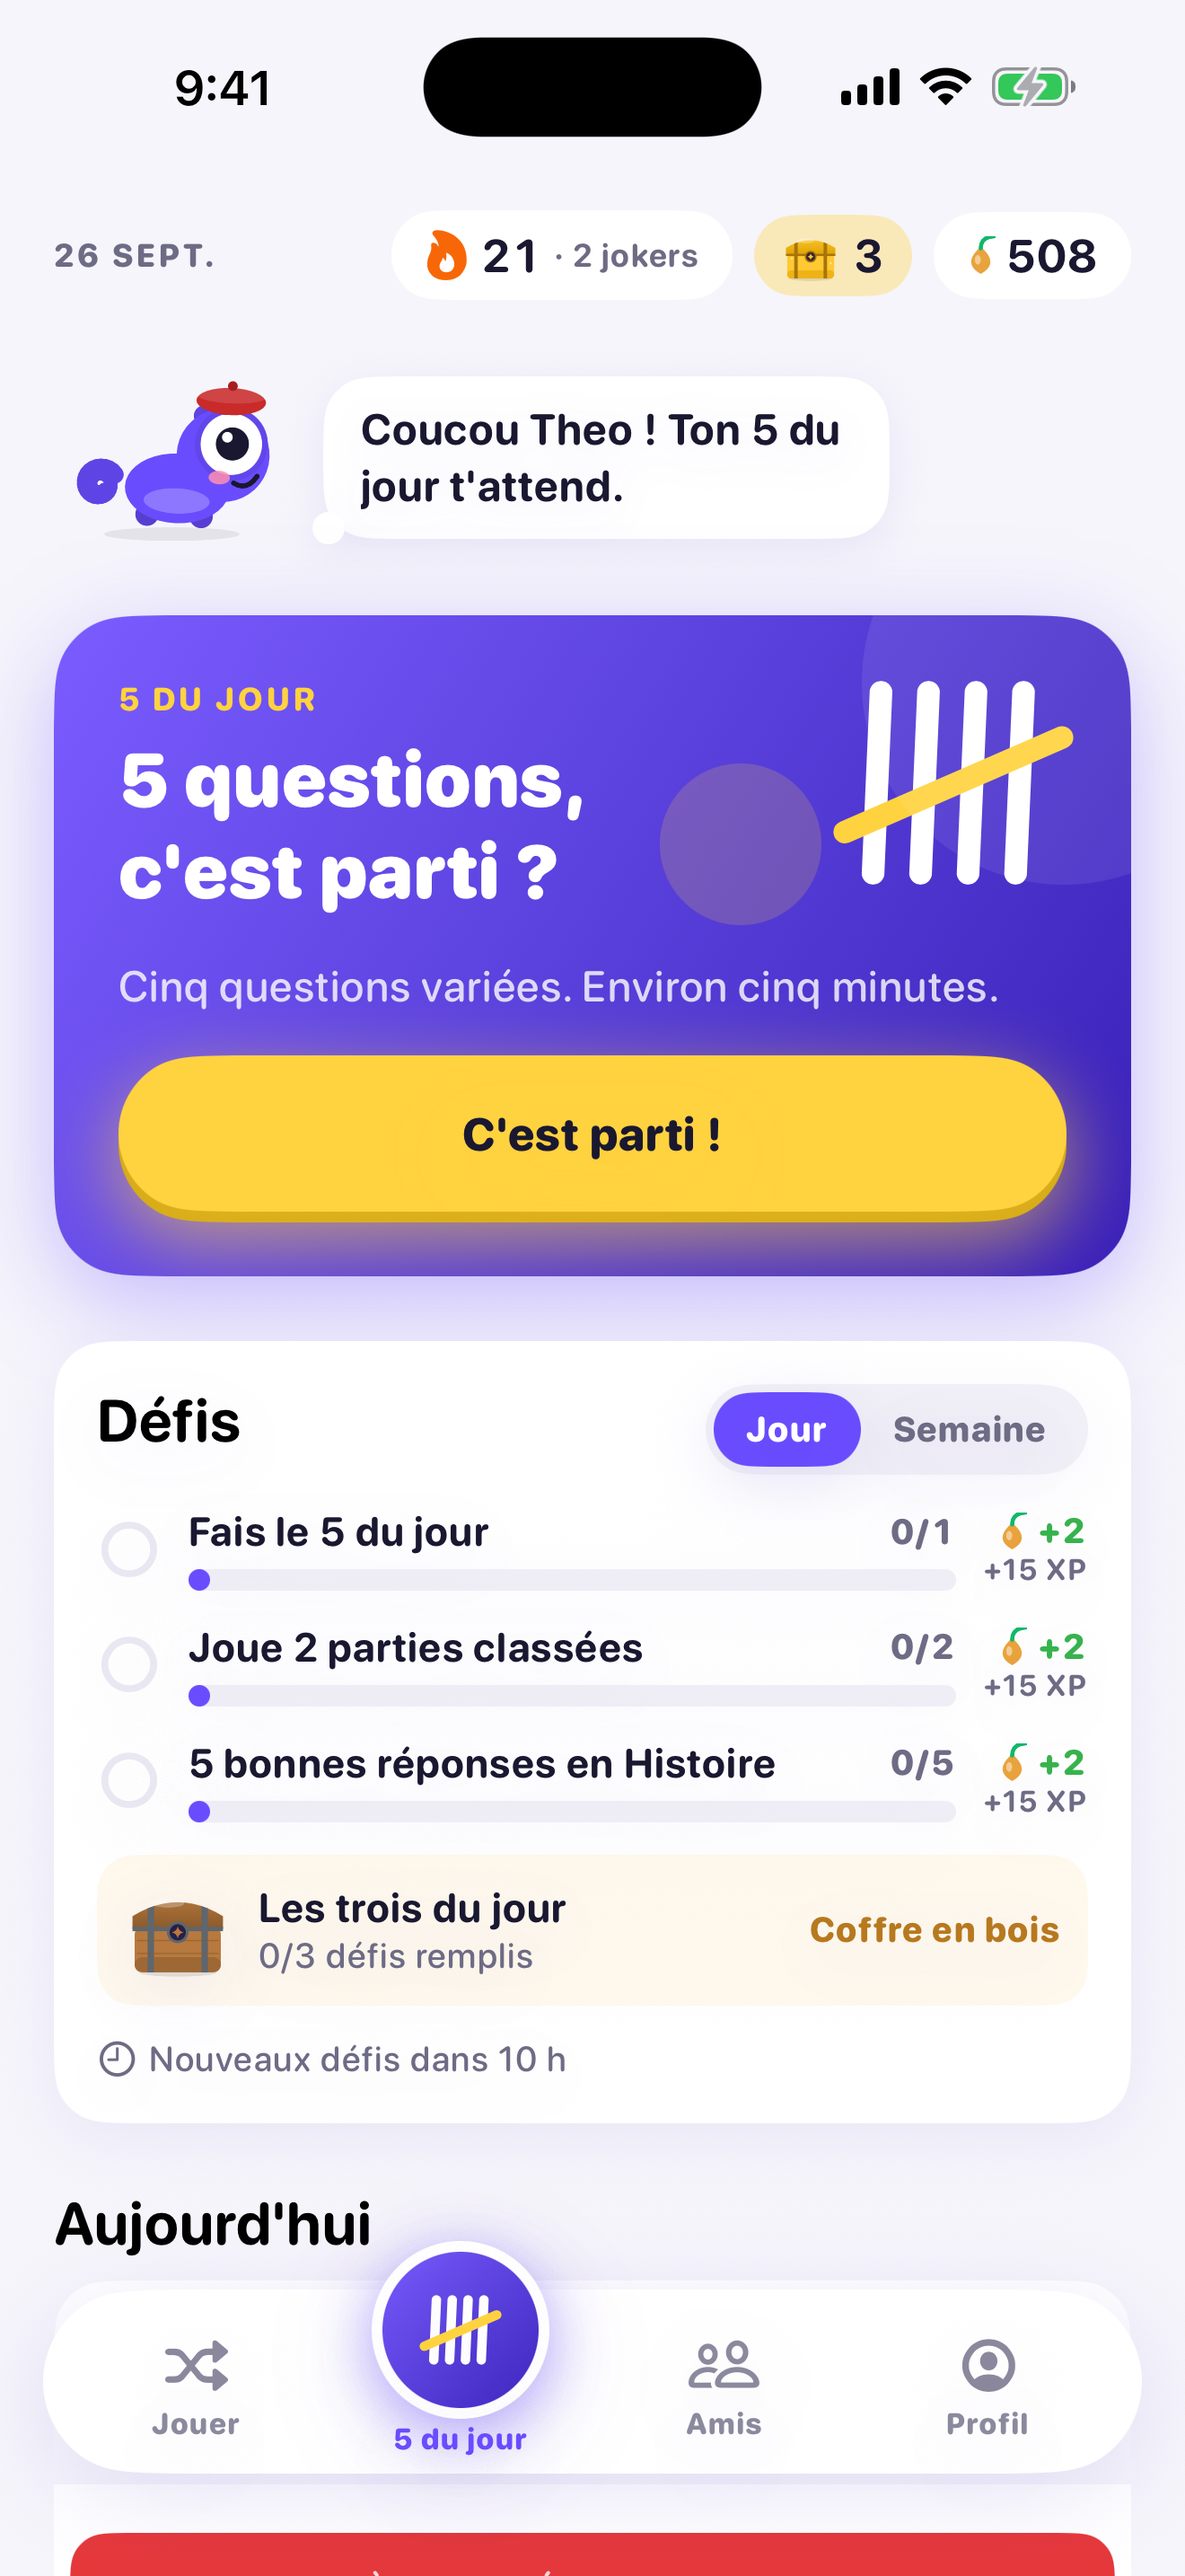
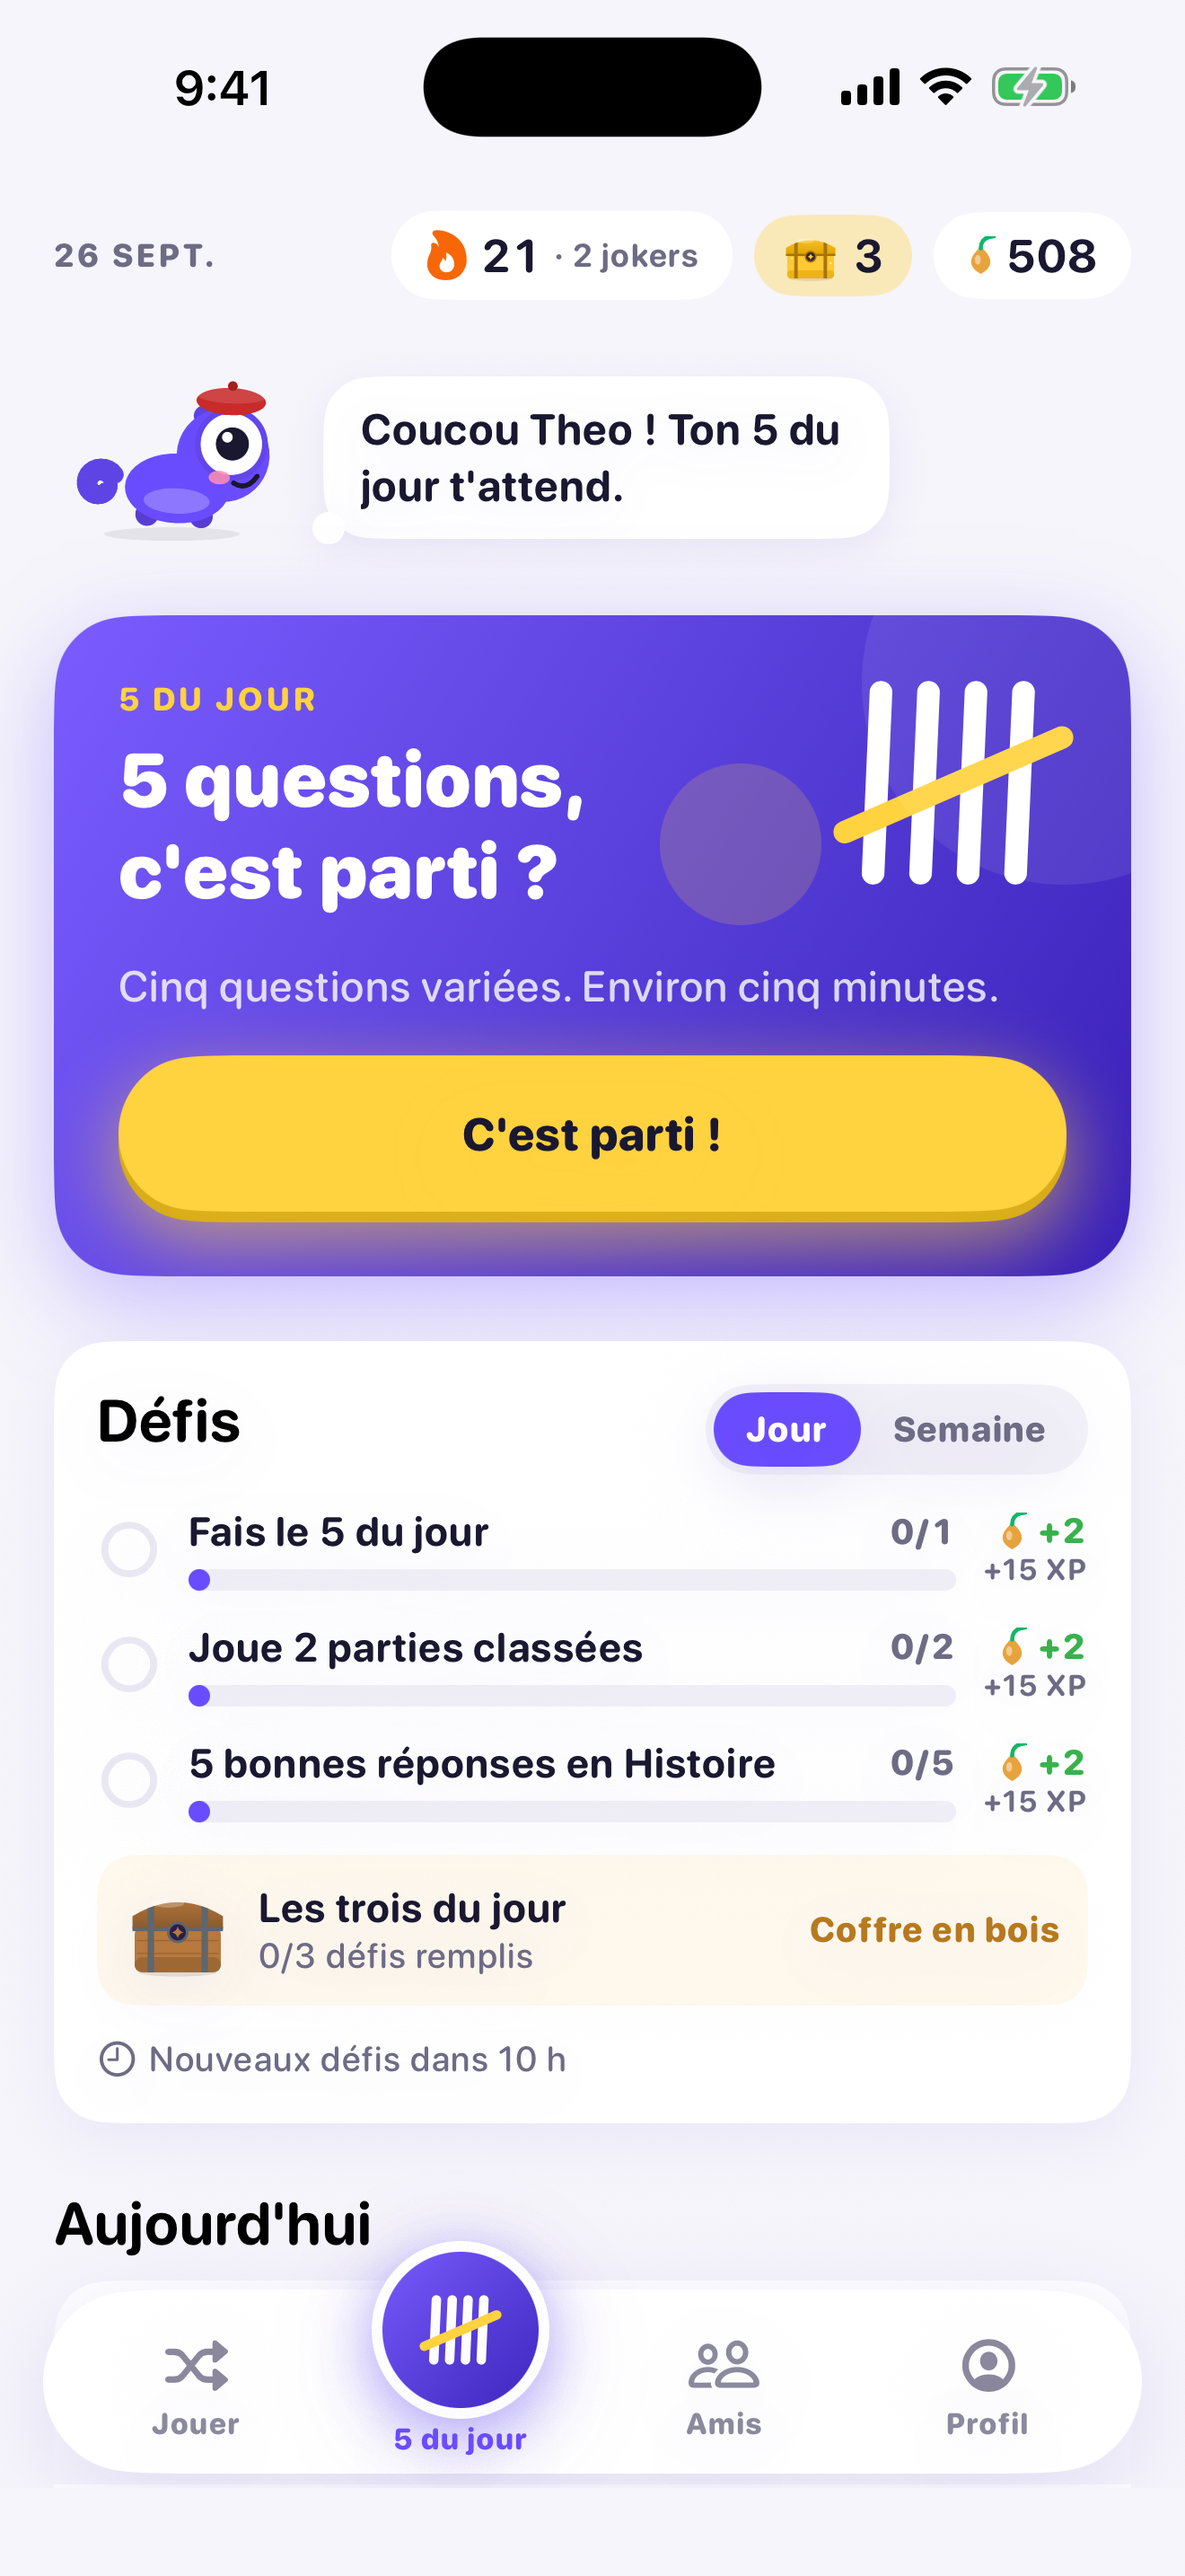
Quitter une partie : « Ta réponse est gardée » au singulier ; capture App Store de l'accueil sans la bande rouge en bas
Claude-Session: https://claude.ai/code/session_01FH1jSRMKag1diAodaNQgn2

Changed region(s): [[0.0621, 0.962, 0.9629, 1.0]]

diff --git a/ios/CultFive/Features/Play/PlaySessionView.swift b/ios/CultFive/Features/Play/PlaySessionView.swift
@@ -166,7 +166,7 @@ struct PlaySessionView: View {
                 Button("Continuer la partie", role: .cancel) {}
             } message: {
                 let n = model.results.count
-                Text("Tes \(n) réponse\(n > 1 ? "s" : "") \(n > 1 ? "sont gardées et comptent" : "est gardée et compte") "
+                Text((n > 1 ? "Tes \(n) réponses sont gardées et comptent " : "Ta réponse est gardée et compte ")
                      + (config.countsForElo ? "(Elo, XP, défis)" : "(XP, défis)")
                      + ". Les questions restantes ne seront pas jouées.")
             }
